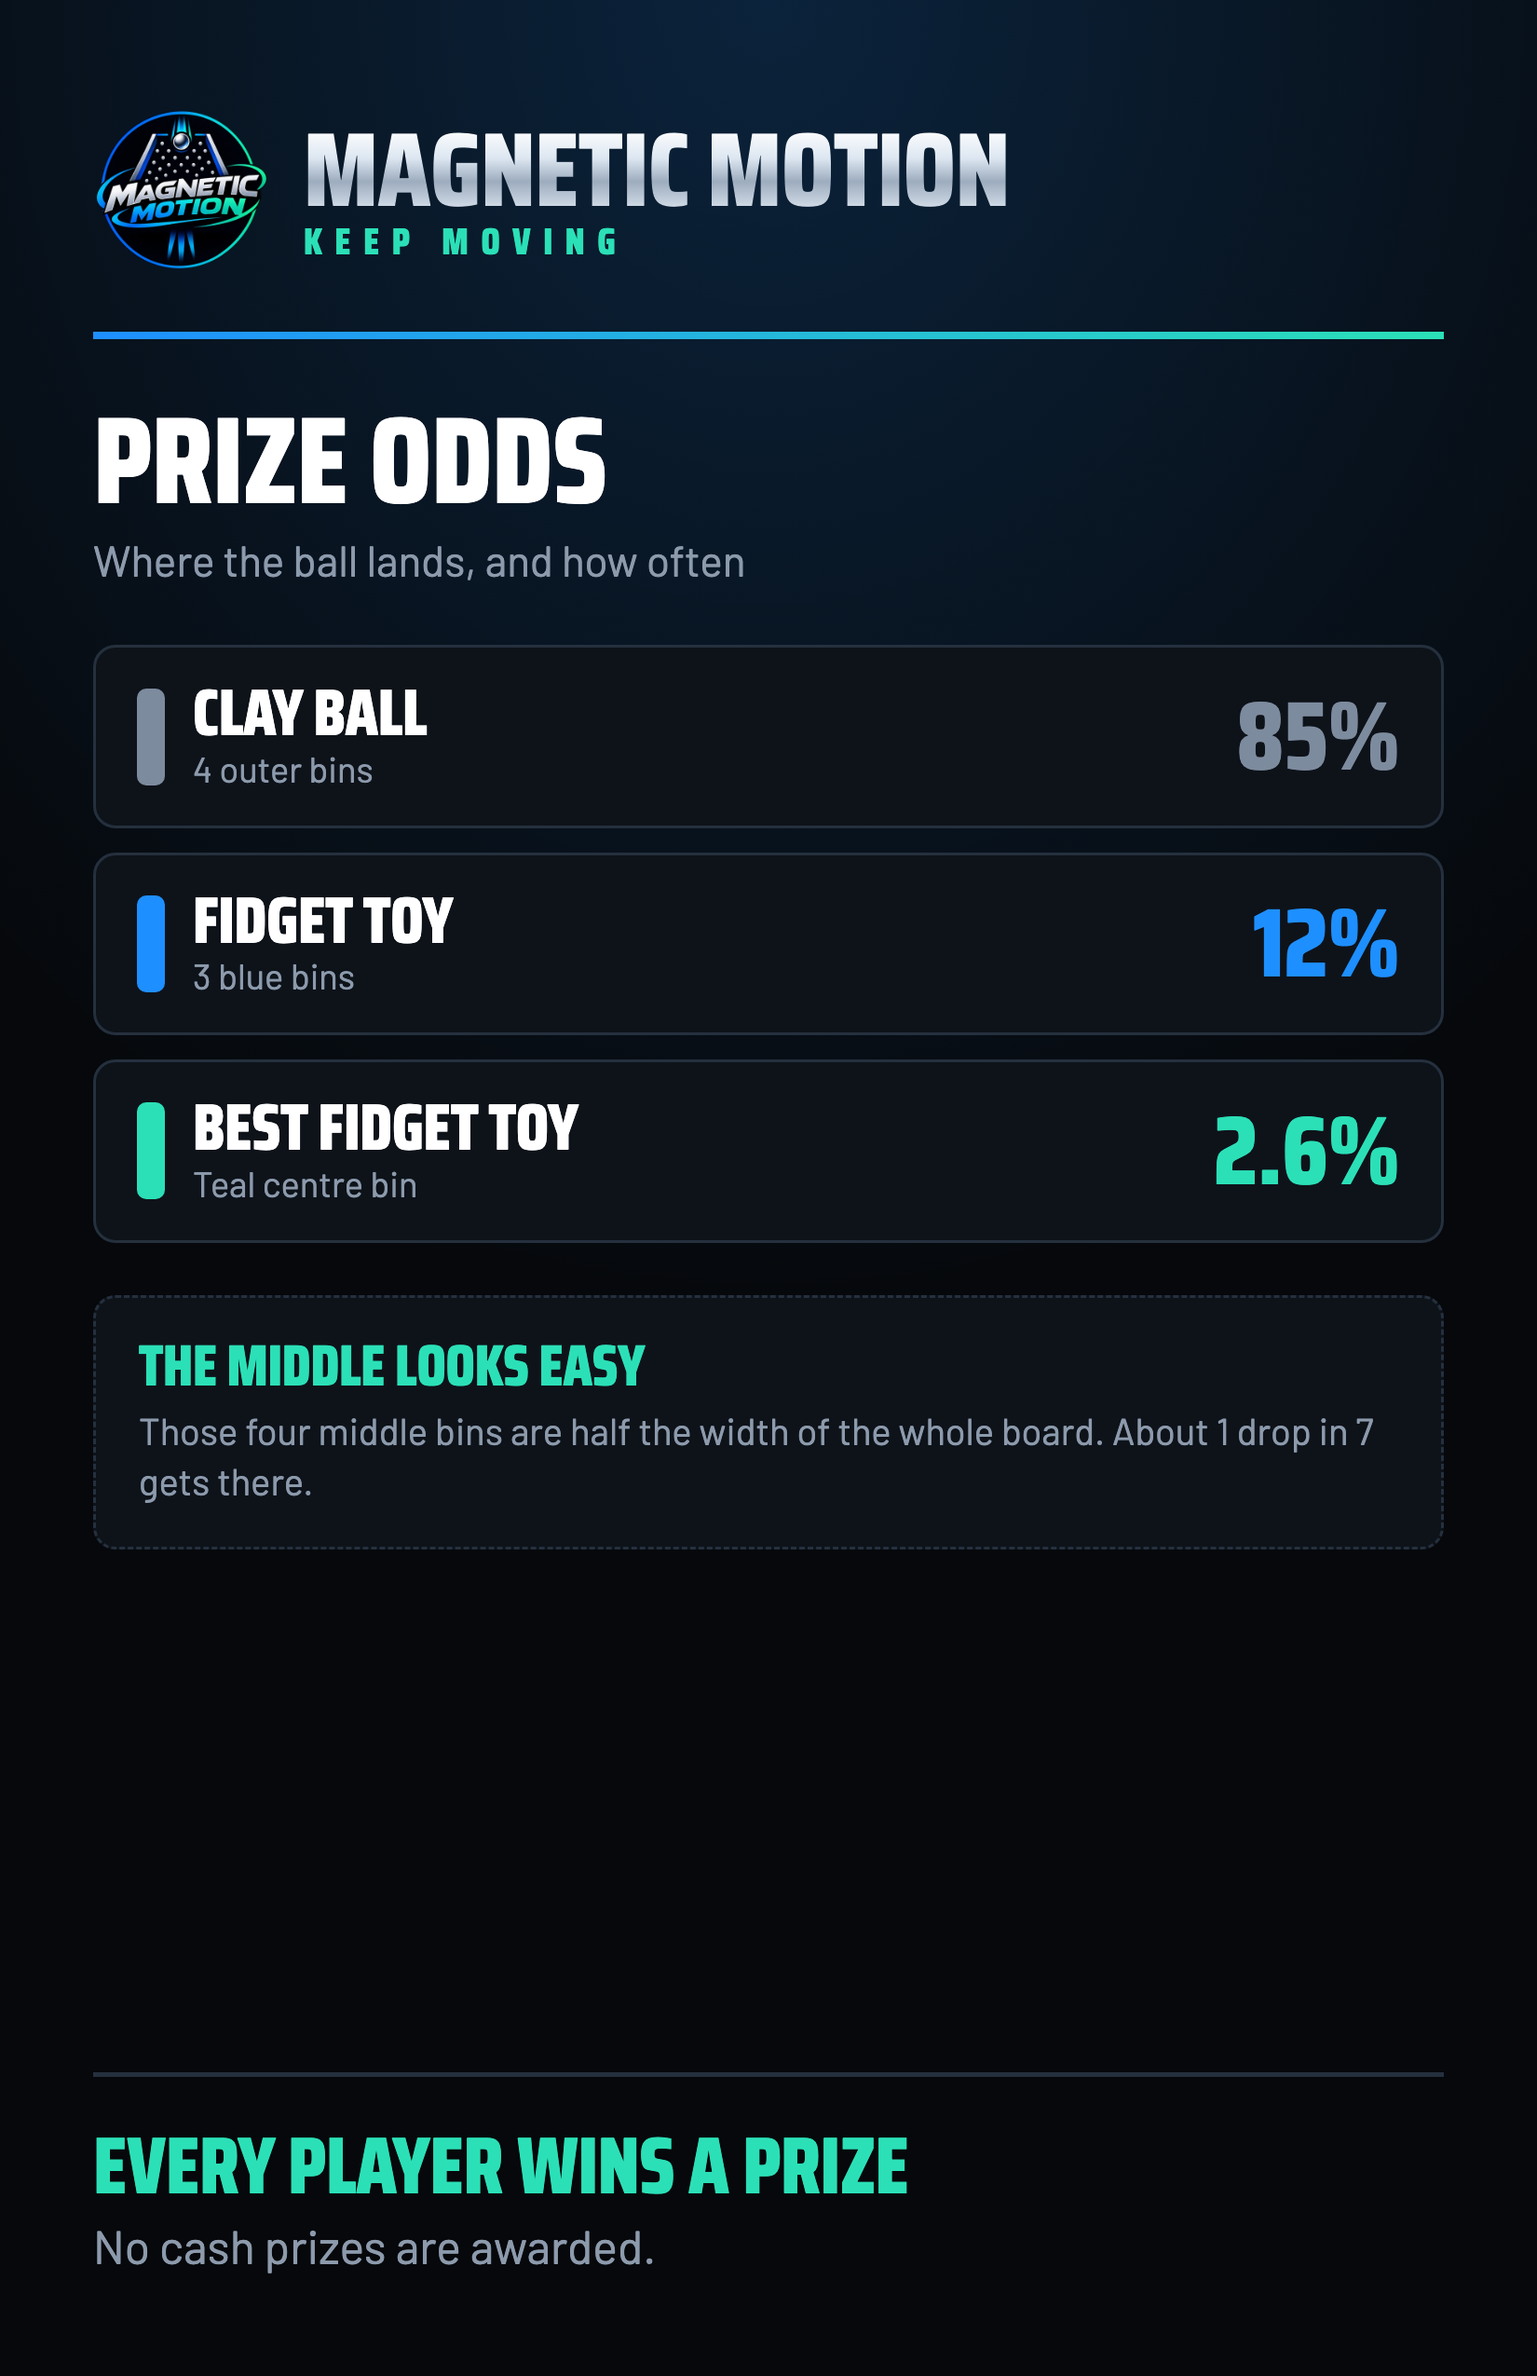
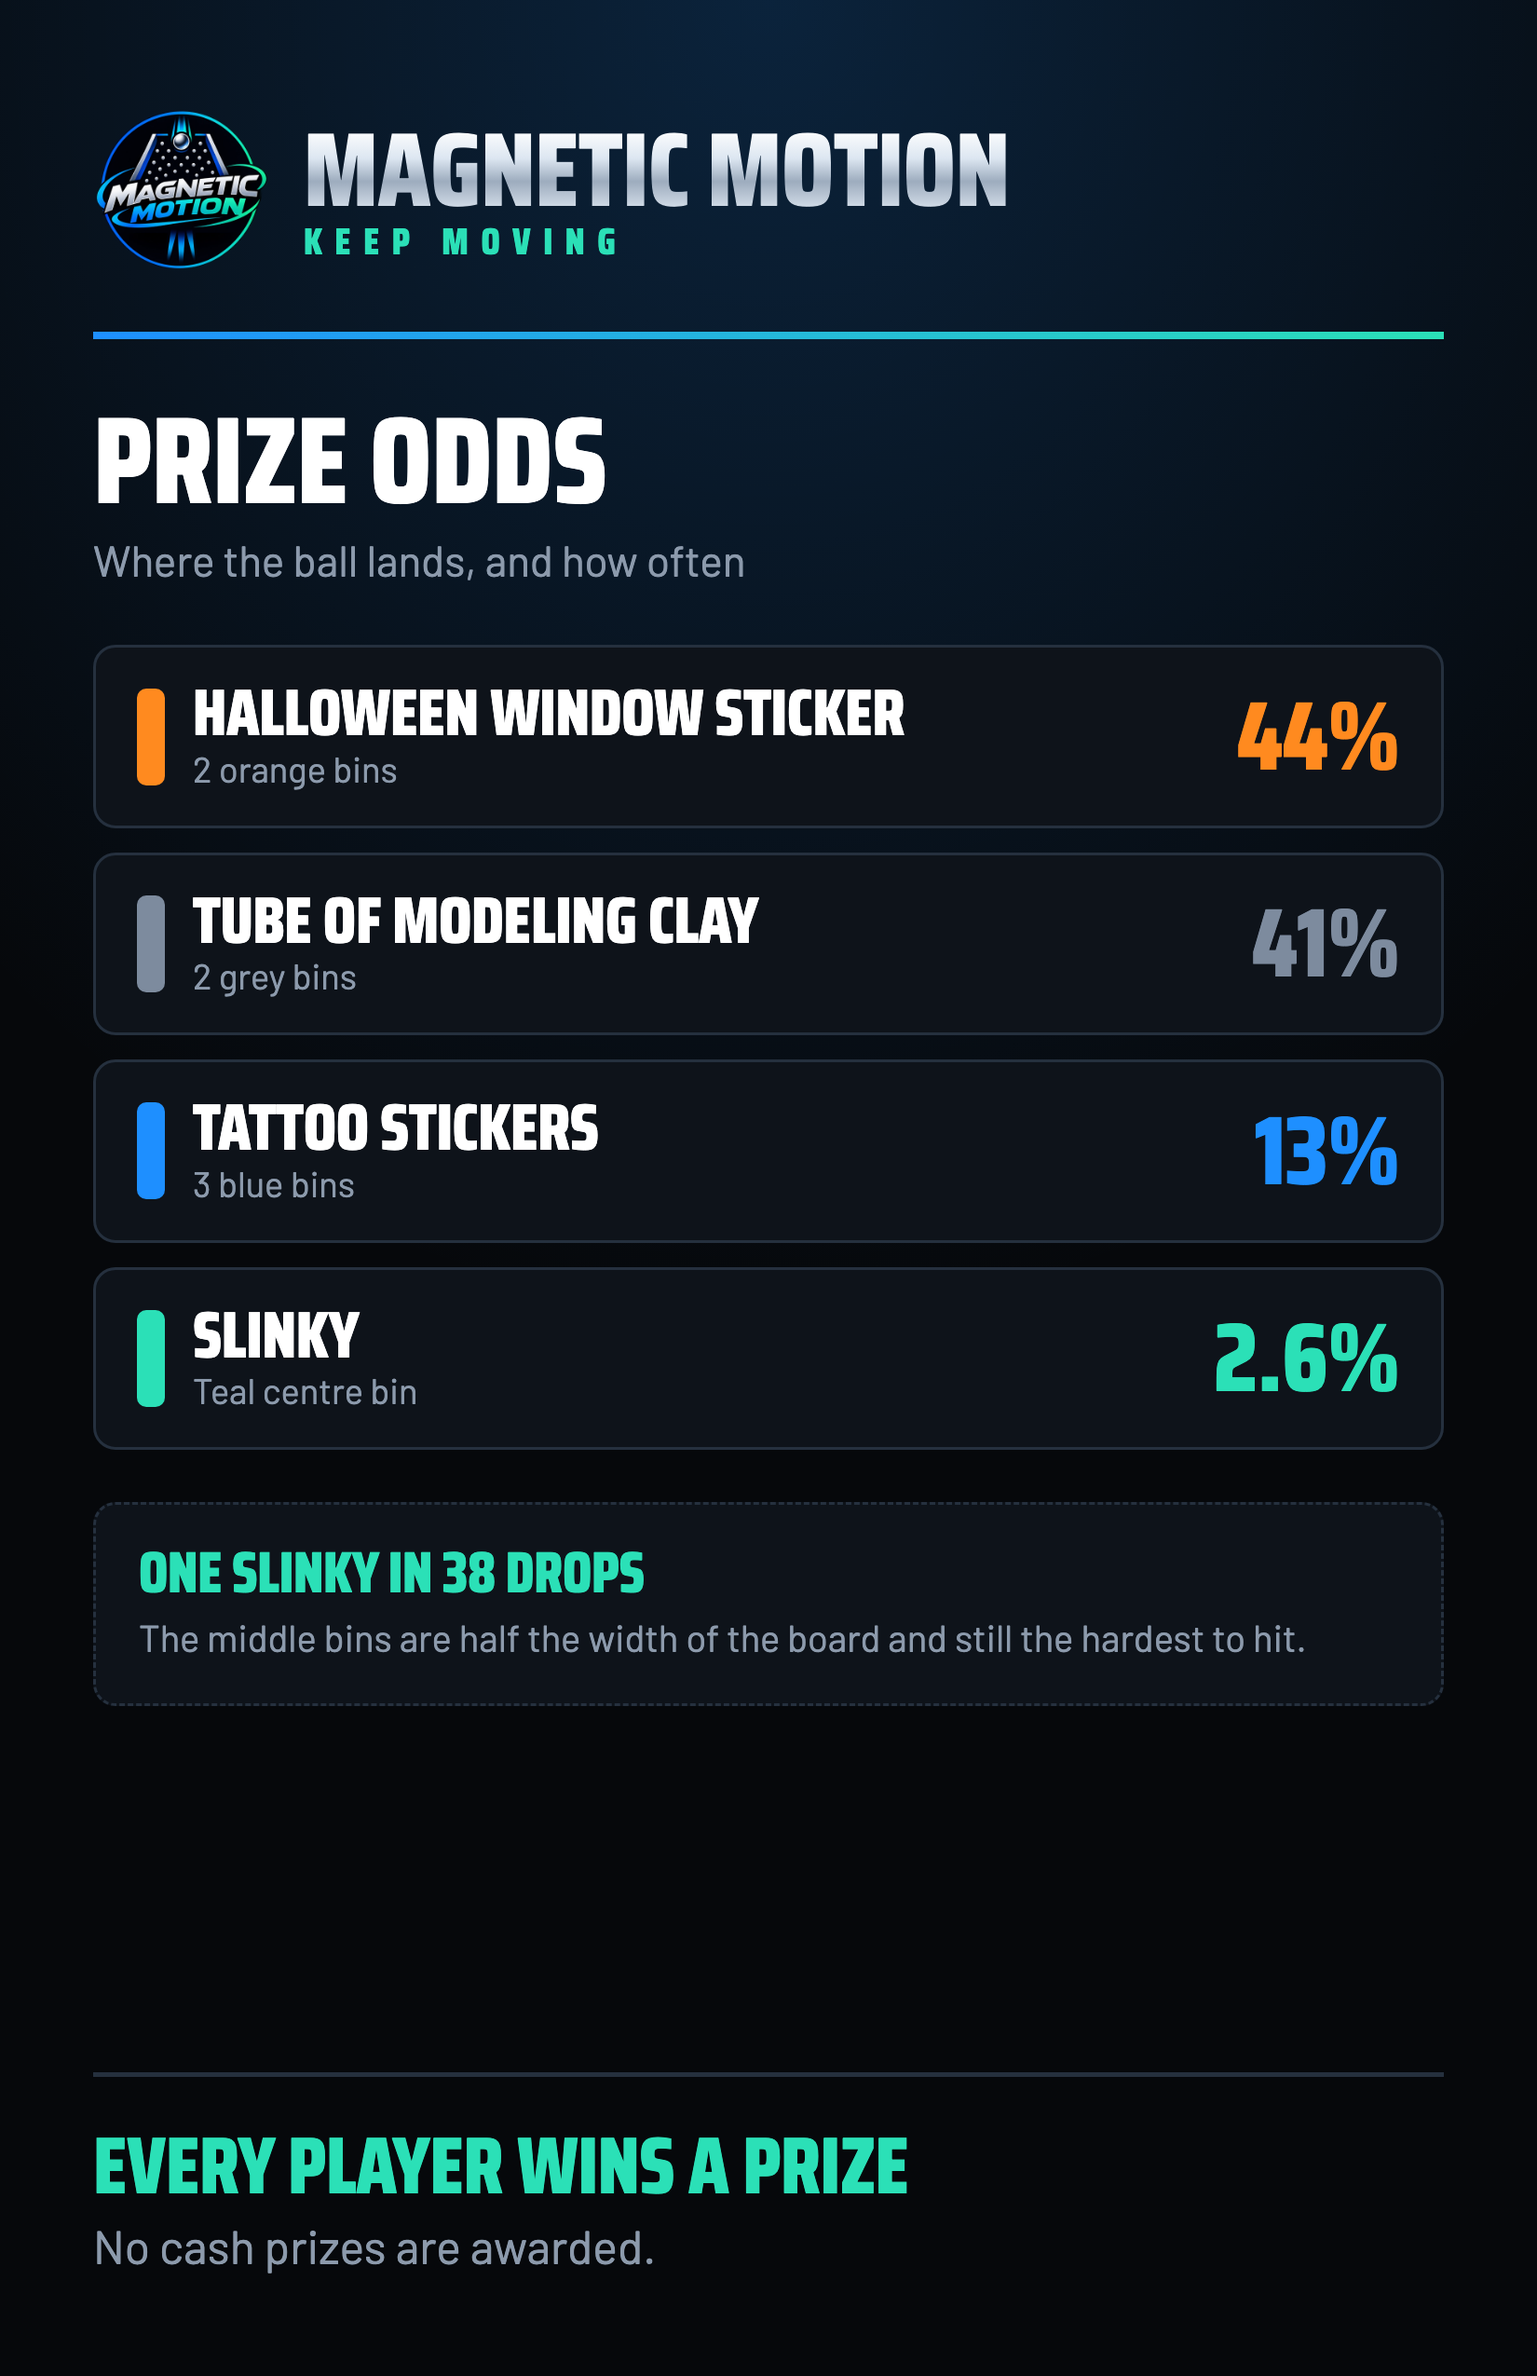
New prize set: window stickers, modeling clay, tattoos, slinkies
Four tiers. The two common prizes sit on opposite sides of the board at
roughly equal rates; slinky is the teal centre bin.

diff --git a/index.html b/index.html
@@ -50,7 +50,7 @@ html,body{height:100%;margin:0;overflow:hidden;background:var(--black);color:var
   border-radius:11px;padding:7px 13px;min-width:78px;backdrop-filter:blur(6px)}
 .chip b{font-family:var(--mono);font-size:1.15rem;font-variant-numeric:tabular-nums;line-height:1}
 .chip span{font-size:.62rem;letter-spacing:.1em;text-transform:uppercase;color:var(--muted)}
-.chip.clay b{color:var(--steel)}.chip.fid b{color:var(--blue)}.chip.best b{color:var(--teal)}
+.chip.clay b{color:var(--steel)}.chip.stick b{color:#FF8A1F}.chip.tat b{color:var(--blue)}.chip.slink b{color:var(--teal)}
 .chip.cash b{color:#fff}
 @media (max-width:640px){#bottom{gap:10px;padding:12px 14px}.chip{min-width:62px;padding:6px 9px}.chip b{font-size:1rem}}
 .ghost{background:none;border:1px solid var(--line);color:var(--muted);border-radius:10px;
@@ -82,12 +82,15 @@ html,body{height:100%;margin:0;overflow:hidden;background:var(--black);color:var
   text-transform:uppercase;color:var(--muted);opacity:.75;animation:up .45s .6s both}
 @keyframes pop{from{transform:scale(.55);opacity:0}to{transform:scale(1);opacity:1}}
 @keyframes up{from{transform:translateY(14px);opacity:0}to{transform:translateY(0);opacity:1}}
-#reveal.clay .name{background:linear-gradient(180deg,#E3EAF2,#6F7E90);-webkit-background-clip:text;background-clip:text;color:transparent}
+#reveal .name{background-clip:text;-webkit-background-clip:text;color:transparent}
+#reveal.clay .name{background-image:linear-gradient(180deg,#E3EAF2,#6F7E90)}
 #reveal.clay .glow{background:radial-gradient(60% 50% at 50% 55%,rgba(125,139,158,.4),rgba(6,8,11,.94) 70%)}
-#reveal.fid .name{background:linear-gradient(180deg,#8FD0FF,#0B63C4);-webkit-background-clip:text;background-clip:text;color:transparent}
-#reveal.fid .glow{background:radial-gradient(60% 50% at 50% 55%,rgba(30,143,255,.42),rgba(6,8,11,.94) 70%)}
-#reveal.best .name{background:linear-gradient(180deg,#FFFFFF,#2BE0B7 60%,#12A88A);-webkit-background-clip:text;background-clip:text;color:transparent}
-#reveal.best .glow{background:radial-gradient(70% 60% at 50% 55%,rgba(43,224,183,.5),rgba(6,8,11,.94) 72%)}
+#reveal.stick .name{background-image:linear-gradient(180deg,#FFD39B,#E8731A)}
+#reveal.stick .glow{background:radial-gradient(62% 52% at 50% 55%,rgba(255,138,31,.42),rgba(6,8,11,.94) 70%)}
+#reveal.tat .name{background-image:linear-gradient(180deg,#8FD0FF,#0B63C4)}
+#reveal.tat .glow{background:radial-gradient(60% 50% at 50% 55%,rgba(30,143,255,.42),rgba(6,8,11,.94) 70%)}
+#reveal.slink .name{background-image:linear-gradient(180deg,#FFFFFF,#2BE0B7 60%,#12A88A)}
+#reveal.slink .glow{background:radial-gradient(70% 60% at 50% 55%,rgba(43,224,183,.5),rgba(6,8,11,.94) 72%)}
 #flash{position:absolute;inset:0;background:#fff;opacity:0;pointer-events:none;z-index:7}
 #flash.go{animation:fl .5s ease-out}
 @keyframes fl{0%{opacity:.85}100%{opacity:0}}
@@ -114,18 +117,20 @@ html,body{height:100%;margin:0;overflow:hidden;background:var(--black);color:var
 
   <div id="odds">
     <h3>Prize odds</h3>
-    <div class="orow"><i class="sw" style="background:#7D8B9E"></i><span class="nm">Clay ball</span><span class="pc">85%</span></div>
-    <div class="orow"><i class="sw" style="background:#1E8FFF"></i><span class="nm">Fidget toy</span><span class="pc">12%</span></div>
-    <div class="orow"><i class="sw" style="background:#2BE0B7"></i><span class="nm">Best fidget toy</span><span class="pc">2.6%</span></div>
+    <div class="orow"><i class="sw" style="background:#FF8A1F"></i><span class="nm">Halloween window sticker</span><span class="pc">44%</span></div>
+    <div class="orow"><i class="sw" style="background:#7D8B9E"></i><span class="nm">Tube of modeling clay</span><span class="pc">41%</span></div>
+    <div class="orow"><i class="sw" style="background:#1E8FFF"></i><span class="nm">Tattoo stickers</span><span class="pc">13%</span></div>
+    <div class="orow"><i class="sw" style="background:#2BE0B7"></i><span class="nm">Slinky</span><span class="pc">2.6%</span></div>
     <div class="foot">Every player wins a prize.<br>No cash prizes are awarded.</div>
   </div>
 
   <div class="bar" id="bottom">
     <button id="drop" type="button">Drop</button>
     <div class="tally">
-      <div class="chip clay"><b id="tClay">0</b><span>Clay</span></div>
-      <div class="chip fid"><b id="tFid">0</b><span>Fidget</span></div>
-      <div class="chip best"><b id="tBest">0</b><span>Best</span></div>
+      <div class="chip clay"><b id="t_clay">0</b><span>Clay</span></div>
+      <div class="chip stick"><b id="t_stick">0</b><span>Sticker</span></div>
+      <div class="chip tat"><b id="t_tat">0</b><span>Tattoo</span></div>
+      <div class="chip slink"><b id="t_slink">0</b><span>Slinky</span></div>
       <div class="chip cash"><b id="tCash">$0</b><span>Taken</span></div>
     </div>
     <div class="spacer"></div>
@@ -138,7 +143,7 @@ html,body{height:100%;margin:0;overflow:hidden;background:var(--black);color:var
   <div id="reveal">
     <div class="glow"></div>
     <div class="won">You won</div>
-    <div class="name" id="rName">Clay Ball</div>
+    <div class="name" id="rName">Modeling Clay</div>
     <div class="sub" id="rSub"></div>
     <div class="hint">tap anywhere to continue</div>
   </div>
@@ -161,12 +166,15 @@ const ROWS=[{y:8.5,xs:[4,10,16,22,28]},{y:13,xs:[7,13,19,25],w:1},{y:17.5,xs:[4,
             {y:22,xs:[7,13,19,25]},{y:26.5,xs:[10,16,22]},{y:31,xs:[13,19],w:1},{y:35.5,xs:[16]}];
 const FUN={top:44.5,bot:39.5,gap:3.5,out:6};
 const BOUNDS=[0,3.875,7.75,12.25,16,19.5,24,28,32];
-const TIERS=['clay','clay','fid','fid','best','fid','clay','clay'];
-const TIER_HEX={clay:0x39485B,fid:0x1E8FFF,best:0x2BE0B7};
-const TIER_CSS={clay:'#7D8B9E',fid:'#1E8FFF',best:'#2BE0B7'};
-const PRIZE={clay:{name:'Clay Ball',sub:'Hand over one clay ball.'},
-             fid:{name:'Fidget Toy',sub:'Hand over one small fidget toy.'},
-             best:{name:'Best Fidget Toy',sub:'The centre bin. Roughly 1 drop in 38.'}};
+const TIERS=['clay','clay','tat','tat','slink','tat','stick','stick'];
+const TIER_HEX={clay:0x5B6B7E,stick:0xE8731A,tat:0x1E8FFF,slink:0x2BE0B7};
+const TIER_CSS={clay:'#7D8B9E',stick:'#FF8A1F',tat:'#1E8FFF',slink:'#2BE0B7'};
+const TIER_ORDER=['clay','stick','tat','slink'];
+const PRIZE={
+  clay :{name:'Modeling Clay', sub:'Hand over one tube of clay.',      short:'Clay'},
+  stick:{name:'Window Sticker',sub:'Hand over one Halloween window sticker.',short:'Sticker'},
+  tat  :{name:'Tattoo Stickers',sub:'Hand over one sheet of tattoo stickers.',short:'Tattoo'},
+  slink:{name:'Slinky!',       sub:'The best prize on the board. About 1 drop in 38.',short:'Slinky'}};
 const PRICE=3;
 
 /* ---------- physics ---------- */
@@ -224,7 +232,8 @@ onBounce=function(strength){
 };
 function winSound(tier){
   if(tier==='clay'){blip(200,.18,'sine',.1);blip(150,.22,'sine',.08,.05);}
-  else if(tier==='fid'){[440,660].forEach((f,i)=>blip(f,.2,'triangle',.11,i*.09));}
+  else if(tier==='stick'){blip(330,.16,'triangle',.1);blip(494,.2,'triangle',.09,.07);}
+  else if(tier==='tat'){[440,660,880].forEach((f,i)=>blip(f,.2,'triangle',.11,i*.08));}
   else{[523,659,784,1047,1319].forEach((f,i)=>blip(f,.35,'triangle',.12,i*.085));
        setTimeout(()=>[1568,2093].forEach((f,i)=>blip(f,.5,'sine',.07,i*.12)),380);}
 }
@@ -233,15 +242,16 @@ function winSound(tier){
 const fx=document.getElementById('fx'),fxc=fx.getContext('2d');
 let parts=[];
 function burst(tier){
-  const n=tier==='best'?260:(tier==='fid'?120:45);
-  const cols=tier==='best'?['#2BE0B7','#FFFFFF','#1E8FFF','#A9FFE8']
-           :tier==='fid'?['#1E8FFF','#8FD0FF','#FFFFFF']:['#7D8B9E','#C9D6E4'];
+  const n=tier==='slink'?280:(tier==='tat'?130:50);
+  const cols=tier==='slink'?['#2BE0B7','#FFFFFF','#1E8FFF','#A9FFE8']
+           :tier==='tat'?['#1E8FFF','#8FD0FF','#FFFFFF']
+           :tier==='stick'?['#FF8A1F','#FFC46B','#E8731A']:['#7D8B9E','#C9D6E4','#4E5C6E'];
   const cx=fx.width/2,cy=fx.height*0.52;
   for(let i=0;i<n;i++){
-    const a=Math.random()*Math.PI*2,sp=(tier==='best'?9:6)*(0.35+Math.random());
+    const a=Math.random()*Math.PI*2,sp=(tier==='slink'?9:6)*(0.35+Math.random());
     parts.push({x:cx,y:cy,vx:Math.cos(a)*sp*(1+Math.random()),vy:Math.sin(a)*sp-4-Math.random()*5,
       w:4+Math.random()*7,h:5+Math.random()*10,rot:Math.random()*6.3,vr:(Math.random()-.5)*.35,
-      c:cols[(Math.random()*cols.length)|0],life:1,star:tier==='best'&&Math.random()<.3});
+      c:cols[(Math.random()*cols.length)|0],life:1,star:tier==='slink'&&Math.random()<.3});
   }
 }
 function drawFx(){
@@ -261,15 +271,13 @@ function drawFx(){
 }
 
 /* ---------- tally ---------- */
-const T={clay:0,fid:0,best:0,plays:0};
+const T={clay:0,stick:0,tat:0,slink:0,plays:0};
 let history=[];
-function load(){try{const s=JSON.parse(localStorage.getItem('mm_tally')||'null');
-  if(s){T.clay=s.clay|0;T.fid=s.fid|0;T.best=s.best|0;T.plays=s.plays|0;history=s.history||[];}}catch(e){}}
-function save(){try{localStorage.setItem('mm_tally',JSON.stringify({...T,history:history.slice(-400)}));}catch(e){}}
+function load(){try{const s=JSON.parse(localStorage.getItem('mm_tally_v2')||'null');
+  if(s){TIER_ORDER.forEach(k=>T[k]=s[k]|0);T.plays=s.plays|0;history=s.history||[];}}catch(e){}}
+function save(){try{localStorage.setItem('mm_tally_v2',JSON.stringify({...T,history:history.slice(-400)}));}catch(e){}}
 function paint(){
-  document.getElementById('tClay').textContent=T.clay;
-  document.getElementById('tFid').textContent=T.fid;
-  document.getElementById('tBest').textContent=T.best;
+  TIER_ORDER.forEach(k=>{const el=document.getElementById('t_'+k);if(el)el.textContent=T[k];});
   document.getElementById('tCash').textContent='$'+(T.plays*PRICE);
 }
 load();paint();
@@ -333,11 +341,11 @@ function build3D(){
   }
   const lipC=document.createElement('canvas');lipC.width=1600;lipC.height=150;
   const g=lipC.getContext('2d');g.fillStyle='#06080B';g.fillRect(0,0,1600,150);
-  const LAB=['CLAY','CLAY','FIDGET','FIDGET','★ BEST','FIDGET','CLAY','CLAY'];
+  const LAB=['CLAY','CLAY','TATTOO','TATTOO','★ SLINKY','TATTOO','STICKER','STICKER'];
   for(let i=0;i<8;i++){const k=1600/W;
     g.fillStyle=TIER_CSS[TIERS[i]];g.fillRect(BOUNDS[i]*k+2,0,(BOUNDS[i+1]-BOUNDS[i])*k-4,150);
-    g.fillStyle=TIERS[i]==='clay'?'#0A0D12':'#06080B';
-    g.font='700 '+(TIERS[i]==='best'?44:38)+'px "Saira Condensed",Arial Narrow,sans-serif';
+    g.fillStyle='#06080B';
+    g.font='700 '+(TIERS[i]==='slink'?42:34)+'px "Saira Condensed",Arial Narrow,sans-serif';
     g.textAlign='center';g.textBaseline='middle';g.fillText(LAB[i],(BOUNDS[i]+BOUNDS[i+1])/2*k,78);}
   const lipTex=new THREE.CanvasTexture(lipC);lipTex.encoding=THREE.sRGBEncoding;
   const lip=box(W,3,.25,edgeM);lip.position.set(0,1.5,WALL);bg.add(lip);
@@ -366,7 +374,7 @@ function build3D(){
     m.rotation.y=Math.PI/2;m.position.set(x-.15,29,9.7);m.castShadow=true;scene.add(m);});
 
   ballMesh=new THREE.Mesh(new THREE.SphereGeometry(R,26,18),
-    new THREE.MeshStandardMaterial({color:0xFF8A1F,emissive:0xFF6A00,emissiveIntensity:.25,roughness:.25,metalness:.5}));
+    new THREE.MeshStandardMaterial({color:0xF2F6FA,emissive:0x9FC4FF,emissiveIntensity:.3,roughness:.12,metalness:.85}));
   ballMesh.castShadow=true;ballMesh.visible=false;bg.add(ballMesh);
   window._bg=bg;
   ready=true;return true;
@@ -404,9 +412,9 @@ function showReveal(tier){
   document.getElementById('rName').textContent=p.name;
   document.getElementById('rSub').textContent=p.sub;
   revealOpen=true;
-  if(tier==='best'){flash.classList.remove('go');void flash.offsetWidth;flash.classList.add('go');}
+  if(tier==='slink'){flash.classList.remove('go');void flash.offsetWidth;flash.classList.add('go');}
   burst(tier);winSound(tier);
-  if(tier==='best')setTimeout(()=>burst('best'),520);
+  if(tier==='slink'){setTimeout(()=>burst('slink'),520);setTimeout(()=>burst('slink'),980);}
 }
 function closeReveal(){
   if(!revealOpen)return;
@@ -437,7 +445,7 @@ document.getElementById('sound').addEventListener('click',e=>{
 document.getElementById('undo').addEventListener('click',()=>{
   if(!history.length){toast('Nothing to undo');return;}
   const t=history.pop();T[t]=Math.max(0,T[t]-1);T.plays=Math.max(0,T.plays-1);
-  save();paint();toast('Removed one '+PRIZE[t].name.toLowerCase());});
+  save();paint();toast('Removed one '+PRIZE[t].short.toLowerCase());});
 document.getElementById('reset').addEventListener('click',()=>{
   if(!confirm('Reset the day? This clears all prize counts and the money taken.'))return;
   T.clay=T.fid=T.best=T.plays=0;history=[];save();paint();toast('Day reset');});
